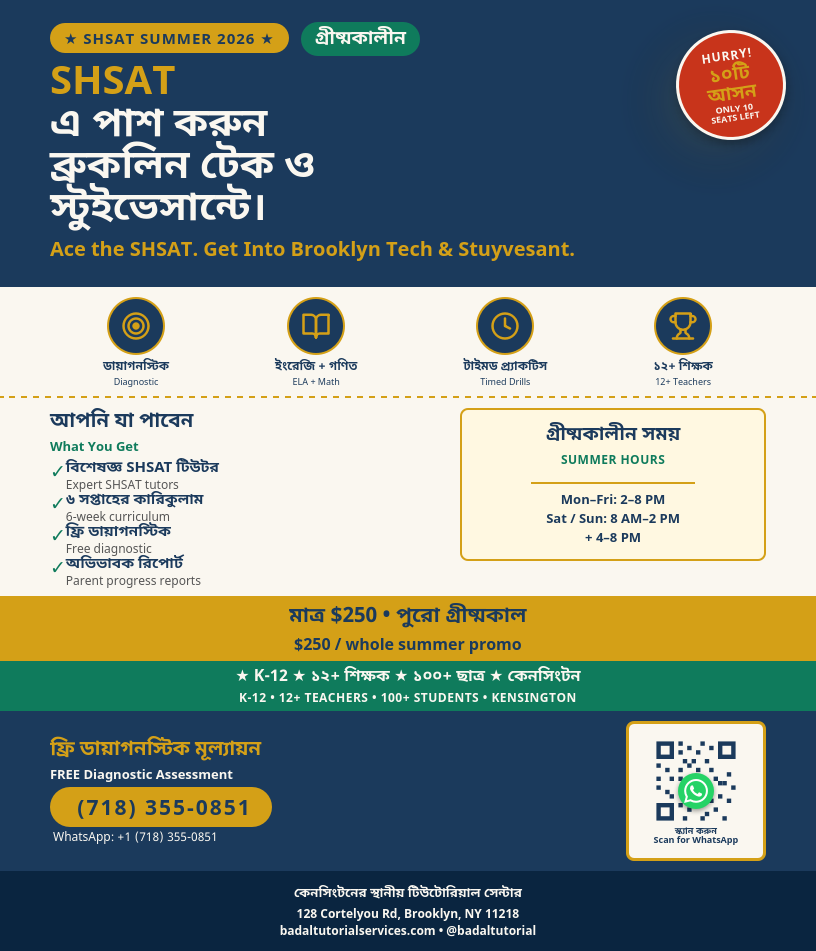
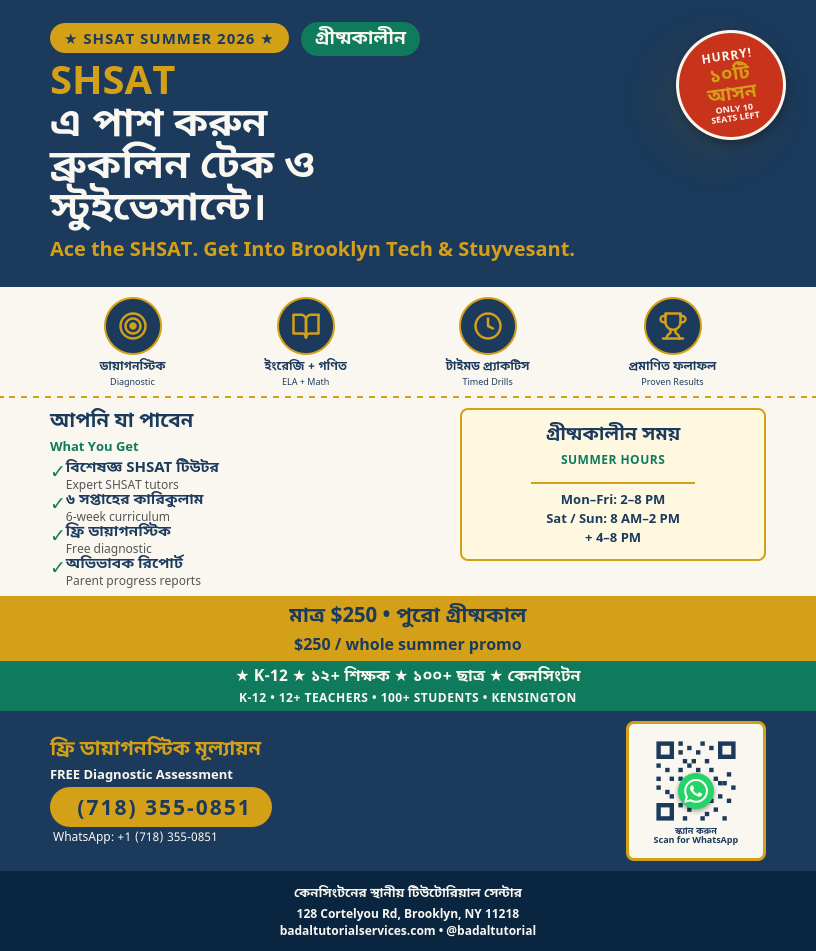
Revert green trust strips to original; keep K-12 in body
- Regents trust: original (BENGALI TUTORS, KENSINGTON, 100+ STUDENTS)
- ESL trust: original (ONLY ESL K-12 PROGRAM IN 11218)
- ESL body: K-5 / 6-12 (K through 12 clarity)
- SHSAT trust: 12+ teachers / 100+ students (no 3 students 2024)
- SHSAT trophy icon label: Proven Results

diff --git a/flyers/regents-bn.html b/flyers/regents-bn.html
@@ -196,8 +196,8 @@
   </div>
 
   <div class="trust">
-    <div class="trust-bn">★ K-12 সব ক্লাস ★ ১২+ শিক্ষক ★ ১০০+ ছাত্র ★</div>
-    <div class="trust-en">K-12 • 12+ TEACHERS • 100+ STUDENTS • KENSINGTON</div>
+    <div class="trust-bn">★ বাংলাভাষী টিউটর ★ কেনসিংটন ★ ১০০+ ছাত্র ★</div>
+    <div class="trust-en">BENGALI TUTORS • KENSINGTON • 100+ STUDENTS</div>
   </div>
 
   <div class="cta">

diff --git a/flyers/esl-bn.html b/flyers/esl-bn.html
@@ -190,8 +190,8 @@
   </div>
 
   <div class="trust">
-    <div class="trust-bn">★ K-12 ইএসএল ★ ১২+ শিক্ষক ★ ১০০+ ছাত্র ★</div>
-    <div class="trust-en">K-12 ESL • 12+ TEACHERS • 100+ STUDENTS</div>
+    <div class="trust-bn">★ ১১২১৮-তে একমাত্র K-12 ইএসএল প্রোগ্রাম ★</div>
+    <div class="trust-en">ONLY ESL K-12 PROGRAM IN 11218</div>
   </div>
 
   <div class="cta">

diff --git a/flyers/shsat-bn.html b/flyers/shsat-bn.html
@@ -136,8 +136,8 @@
           <path d="M18 2H6v7a6 6 0 0 0 12 0V2Z"/>
         </svg>
       </div>
-      <div class="illust-label">১২+ শিক্ষক</div>
-      <div class="illust-label-en">12+ Teachers</div>
+      <div class="illust-label">প্রমাণিত ফলাফল</div>
+      <div class="illust-label-en">Proven Results</div>
     </div>
   </div>
 
